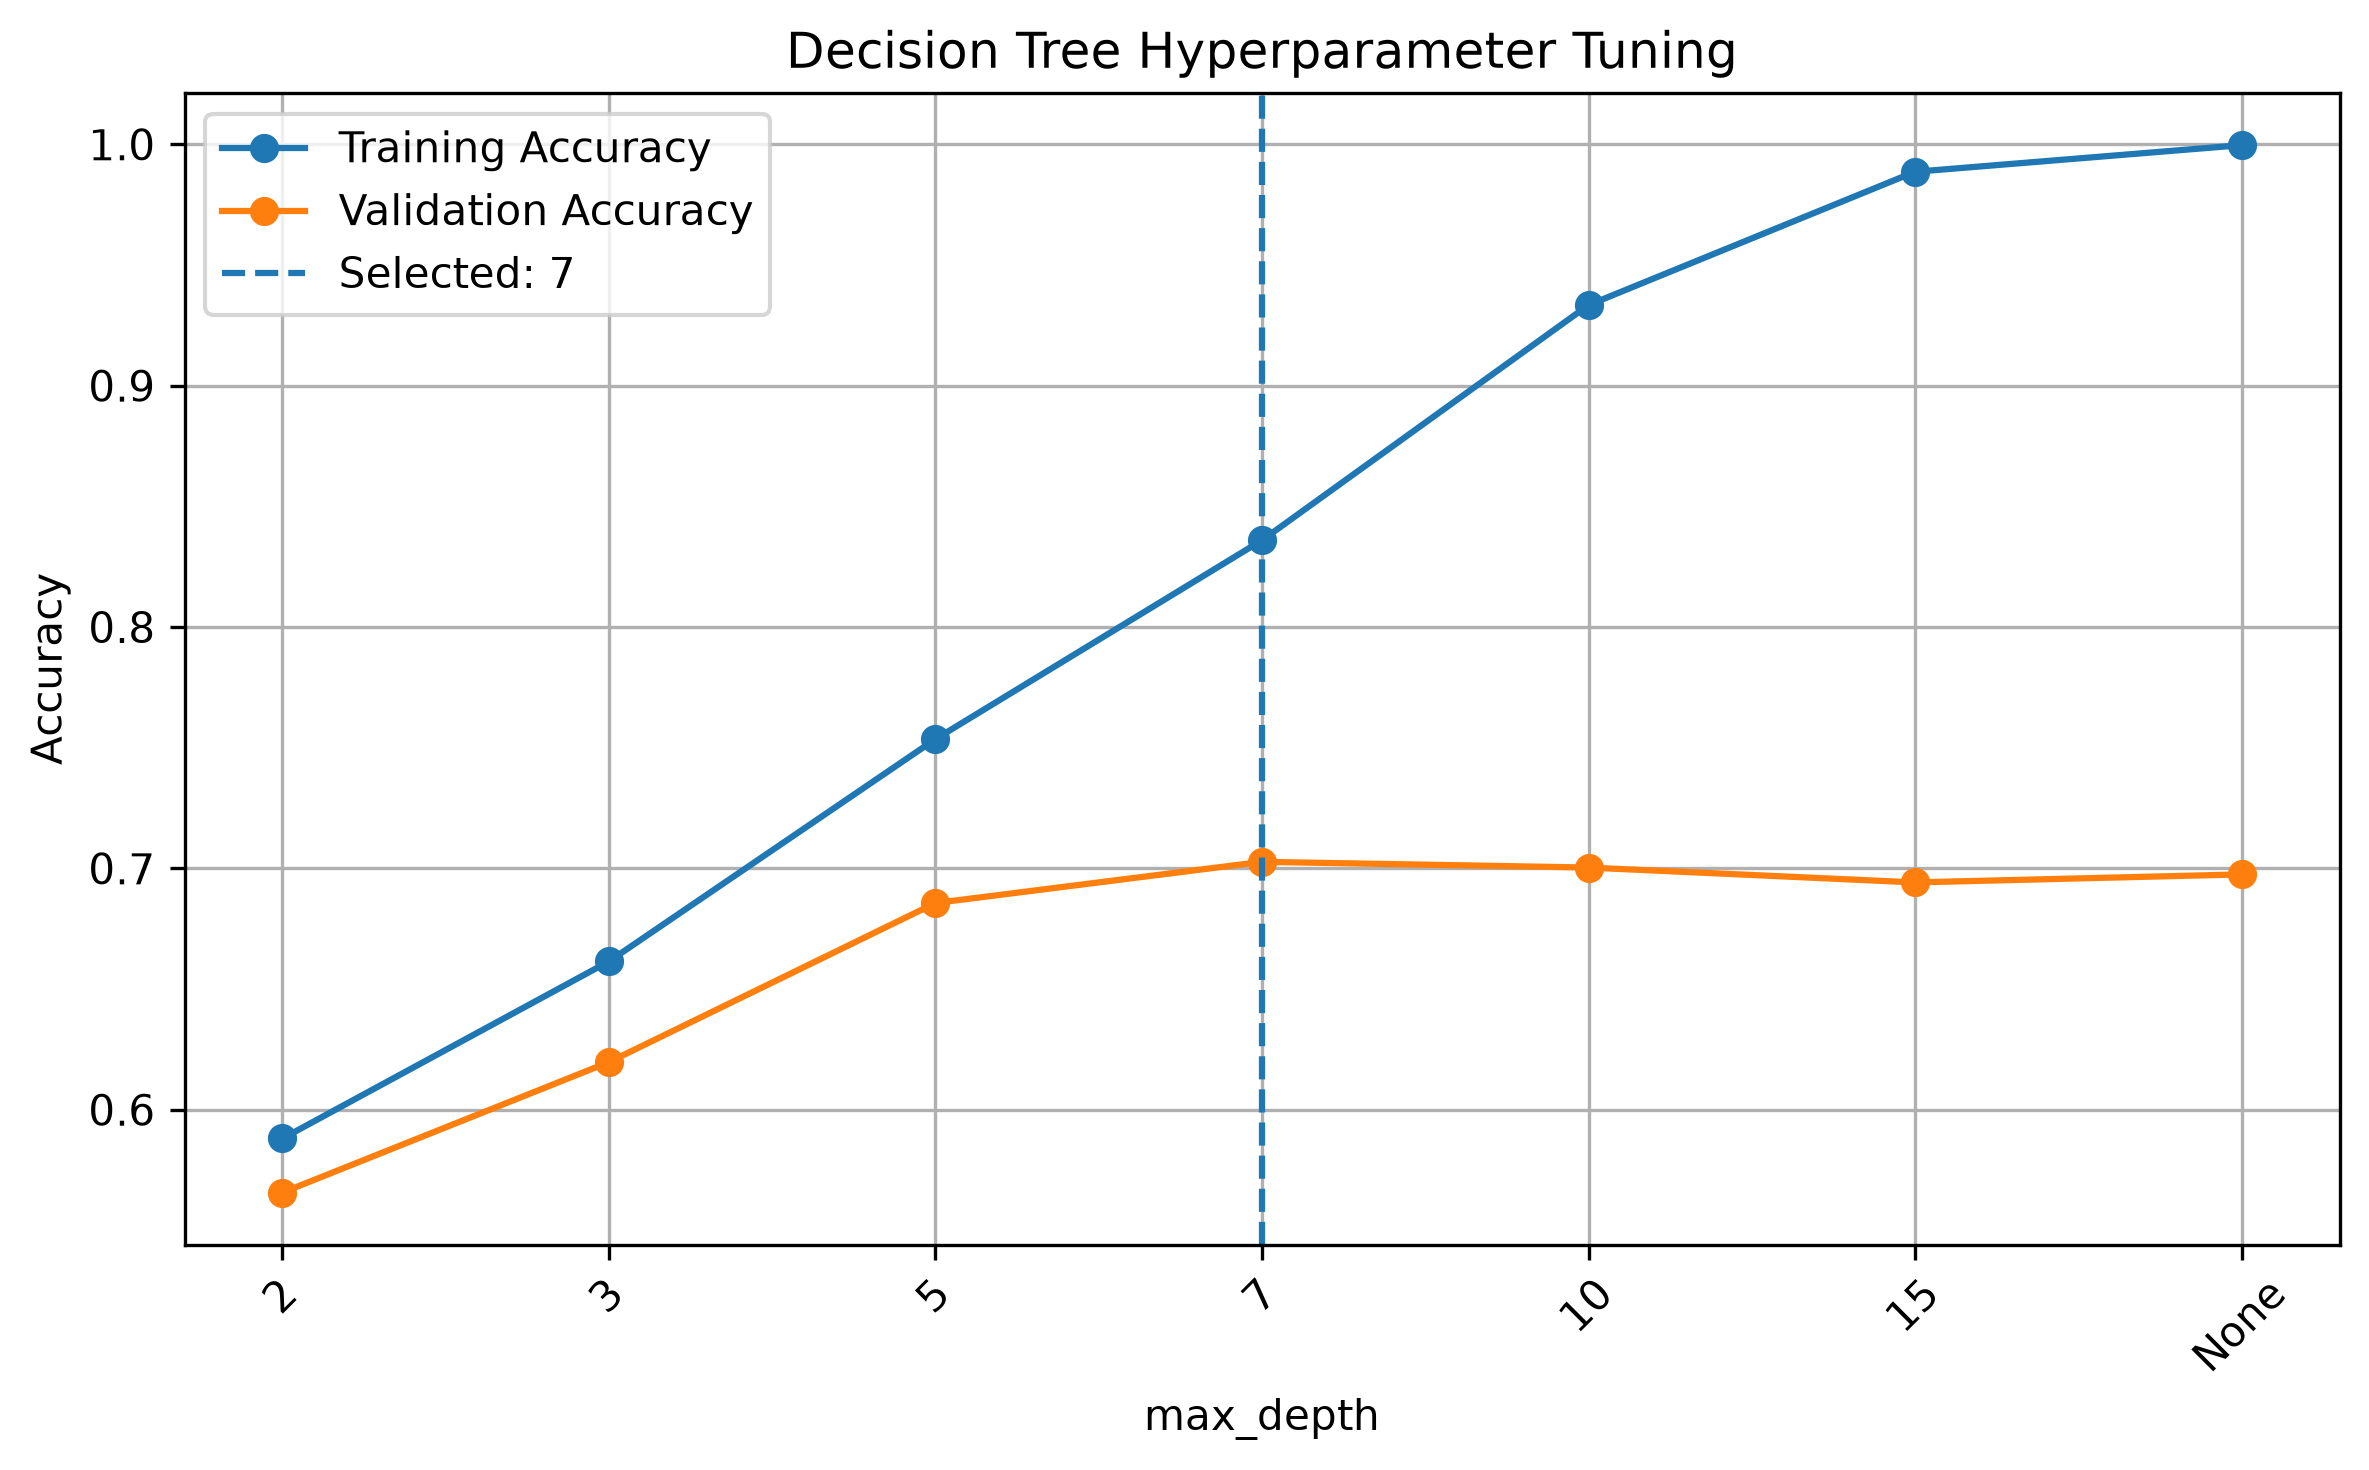
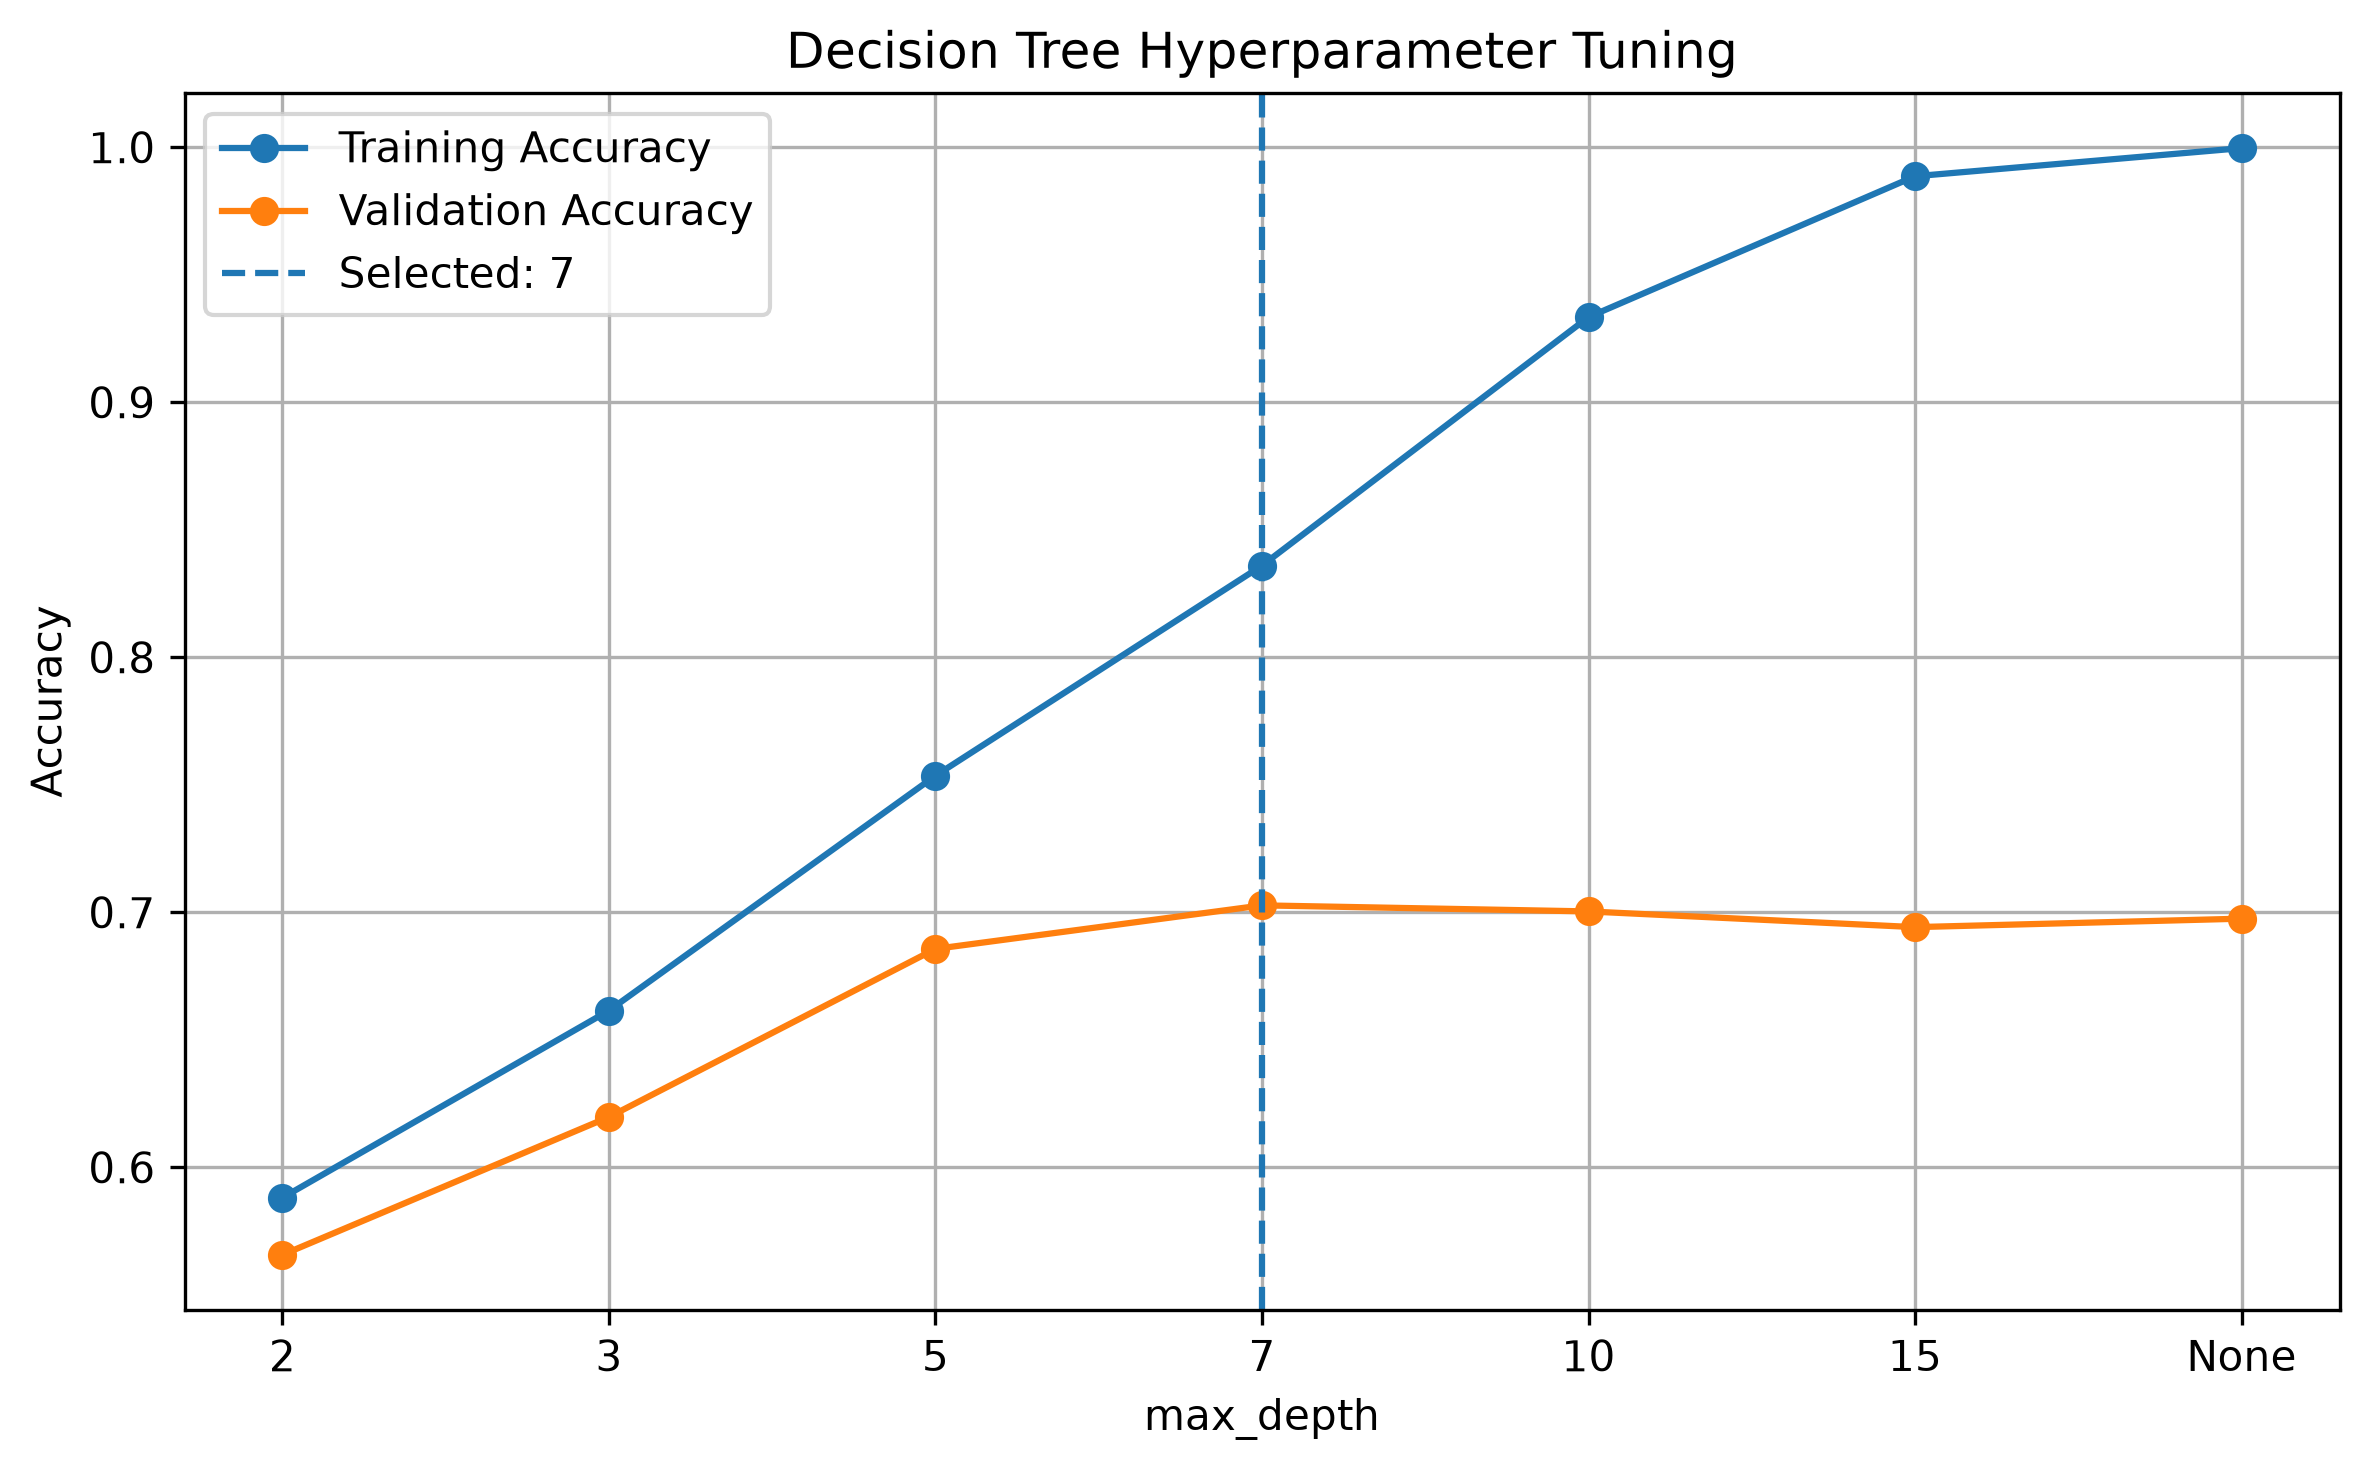
refactor: finalize model evaluation and reproducible pipeline

diff --git a/src/main.py b/src/main.py
@@ -11,13 +11,13 @@ from sklearn.model_selection import (
     GroupShuffleSplit,
     StratifiedGroupKFold,
     cross_val_score,
-    learning_curve,
     cross_val_predict
 )
 from sklearn.neighbors import KNeighborsClassifier
 from sklearn.pipeline import Pipeline
 from sklearn.preprocessing import StandardScaler
 from sklearn.tree import DecisionTreeClassifier
+from sklearn.base import clone
 from sklearn.metrics import (
     accuracy_score,
     classification_report,
@@ -29,50 +29,61 @@ from sklearn.metrics import (
     RocCurveDisplay
 )
 
-DEBUG = True
+DEBUG = False  # Set to True for detailed debugging output
 
 def plot_tuning_curve(search, param_name, title, filename):
     results = pd.DataFrame(search.cv_results_)
-
     params = results[f"param_{param_name}"].tolist()
-
-    # Handle None as a category for unrestricted tree depth
-    labels = [str(p) for p in params]
-    positions = range(len(params))
+    best_param = search.best_params_[param_name]
 
     plt.figure(figsize=(8, 5))
 
+    if param_name == "classifier__max_depth":
+        x_values = np.arange(len(params))
+        tick_labels = [str(p) for p in params]
+        best_x = params.index(best_param)
+
+        plt.xticks(x_values, tick_labels)
+    else:
+        x_values = np.array(params, dtype=float)
+        best_x = float(best_param)
+
+        if param_name == "classifier__C":
+            plt.xscale("log")
+
     plt.plot(
-        positions,
+        x_values,
         results["mean_train_score"],
         marker="o",
         label="Training Accuracy"
     )
 
     plt.plot(
-        positions,
+        x_values,
         results["mean_test_score"],
         marker="o",
         label="Validation Accuracy"
     )
 
-    best_param = search.best_params_[param_name]
-    best_idx = params.index(best_param)
-
     plt.axvline(
-        x=best_idx,
+        best_x,
         linestyle="--",
         label=f"Selected: {best_param}"
     )
 
-    plt.xticks(positions, labels, rotation=45)
     plt.xlabel(param_name.split("__")[-1])
     plt.ylabel("Accuracy")
     plt.title(title)
     plt.legend()
     plt.grid(True)
     plt.tight_layout()
-    plt.savefig(RESULTS_DIR / filename, dpi=300, bbox_inches="tight")
+
+    plt.savefig(
+        RESULTS_DIR / filename,
+        dpi=300,
+        bbox_inches="tight"
+    )
+
     plt.close()
 
 # Load the soccer players dataset
@@ -442,8 +453,6 @@ for fraction in fractions:
         y_subset = y_fold_train.loc[mask]
 
         # Train a fresh copy of the selected model
-        from sklearn.base import clone
-
         model = clone(log_reg_search.best_estimator_)
         model.fit(X_subset, y_subset)
 
@@ -549,24 +558,6 @@ def predict_min_cost(probabilities, cost_matrix, classes):
     predicted_indices = np.argmin(expected_costs, axis=1)
 
     return np.array(classes)[predicted_indices]
-
-example_probs = np.array([
-    [0.40, 0.35, 0.25]
-])
-
-normal_prediction = np.array(classes)[
-    np.argmax(example_probs, axis=1)
-]
-
-cost_prediction = predict_min_cost(
-    example_probs,
-    cost_matrix,
-    classes
-)
-
-print("Normal prediction:", normal_prediction)
-print("Minimum-cost prediction:", cost_prediction)
-
 
 # Generate group-aware out-of-fold probabilities
 oof_probs = cross_val_predict(
